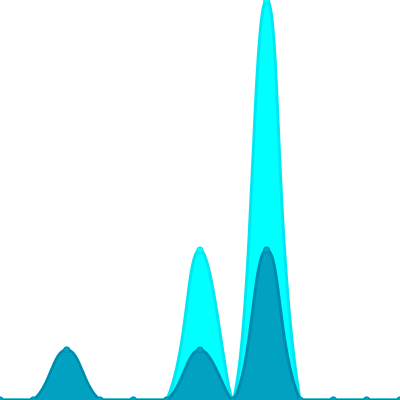
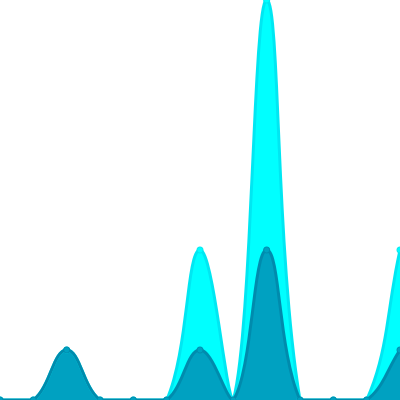
Update views

Changed region(s): [[0.9, 0.6, 1.0, 1.0]]

diff --git a/readme/386867214/year.md b/readme/386867214/year.md
@@ -23,10 +23,10 @@
 			<code>2022/8/1</code>
 		</td>
 		<td>
-			<code>0</code>
+			<code>1</code>
 		</td>
 		<td>
-			<code>0</code>
+			<code>3</code>
 		</td>
 	</tr>
 	<tr>
@@ -164,7 +164,7 @@
 </table>
 
 </details>
-<small><i>Last updated on 2022/8/17 1:15 AM UTC</i></small>
+<small><i>Last updated on 2022/8/17 6:17 AM UTC</i></small>
 
 ## ✂Copy and 📋 Paste
 ### SVG Badge

diff --git a/README.md b/README.md
@@ -133,7 +133,7 @@ The project created and maintained by [gayanvoice](https://github.com/gayanvoice
 	</tr>
 </table>
 
-<small><i>Last updated on 2022/8/17 1:16 AM UTC</i></small>
+<small><i>Last updated on 2022/8/17 6:18 AM UTC</i></small>
 
 ## ✂Copy and 📋 Paste
 ### Total Views Badge

diff --git a/readme/267530346/year.md b/readme/267530346/year.md
@@ -164,7 +164,7 @@
 </table>
 
 </details>
-<small><i>Last updated on 2022/8/17 1:16 AM UTC</i></small>
+<small><i>Last updated on 2022/8/17 6:18 AM UTC</i></small>
 
 ## ✂Copy and 📋 Paste
 ### SVG Badge

diff --git a/readme/355712061/year.md b/readme/355712061/year.md
@@ -164,7 +164,7 @@
 </table>
 
 </details>
-<small><i>Last updated on 2022/8/17 1:15 AM UTC</i></small>
+<small><i>Last updated on 2022/8/17 6:17 AM UTC</i></small>
 
 ## ✂Copy and 📋 Paste
 ### SVG Badge

diff --git a/readme/370225041/year.md b/readme/370225041/year.md
@@ -164,7 +164,7 @@
 </table>
 
 </details>
-<small><i>Last updated on 2022/8/17 1:15 AM UTC</i></small>
+<small><i>Last updated on 2022/8/17 6:17 AM UTC</i></small>
 
 ## ✂Copy and 📋 Paste
 ### SVG Badge

diff --git a/readme/370225247/year.md b/readme/370225247/year.md
@@ -164,7 +164,7 @@
 </table>
 
 </details>
-<small><i>Last updated on 2022/8/17 1:16 AM UTC</i></small>
+<small><i>Last updated on 2022/8/17 6:18 AM UTC</i></small>
 
 ## ✂Copy and 📋 Paste
 ### SVG Badge

diff --git a/readme/374697595/year.md b/readme/374697595/year.md
@@ -164,7 +164,7 @@
 </table>
 
 </details>
-<small><i>Last updated on 2022/8/17 1:16 AM UTC</i></small>
+<small><i>Last updated on 2022/8/17 6:18 AM UTC</i></small>
 
 ## ✂Copy and 📋 Paste
 ### SVG Badge

diff --git a/readme/418262112/year.md b/readme/418262112/year.md
@@ -164,7 +164,7 @@
 </table>
 
 </details>
-<small><i>Last updated on 2022/8/17 1:15 AM UTC</i></small>
+<small><i>Last updated on 2022/8/17 6:17 AM UTC</i></small>
 
 ## ✂Copy and 📋 Paste
 ### SVG Badge
